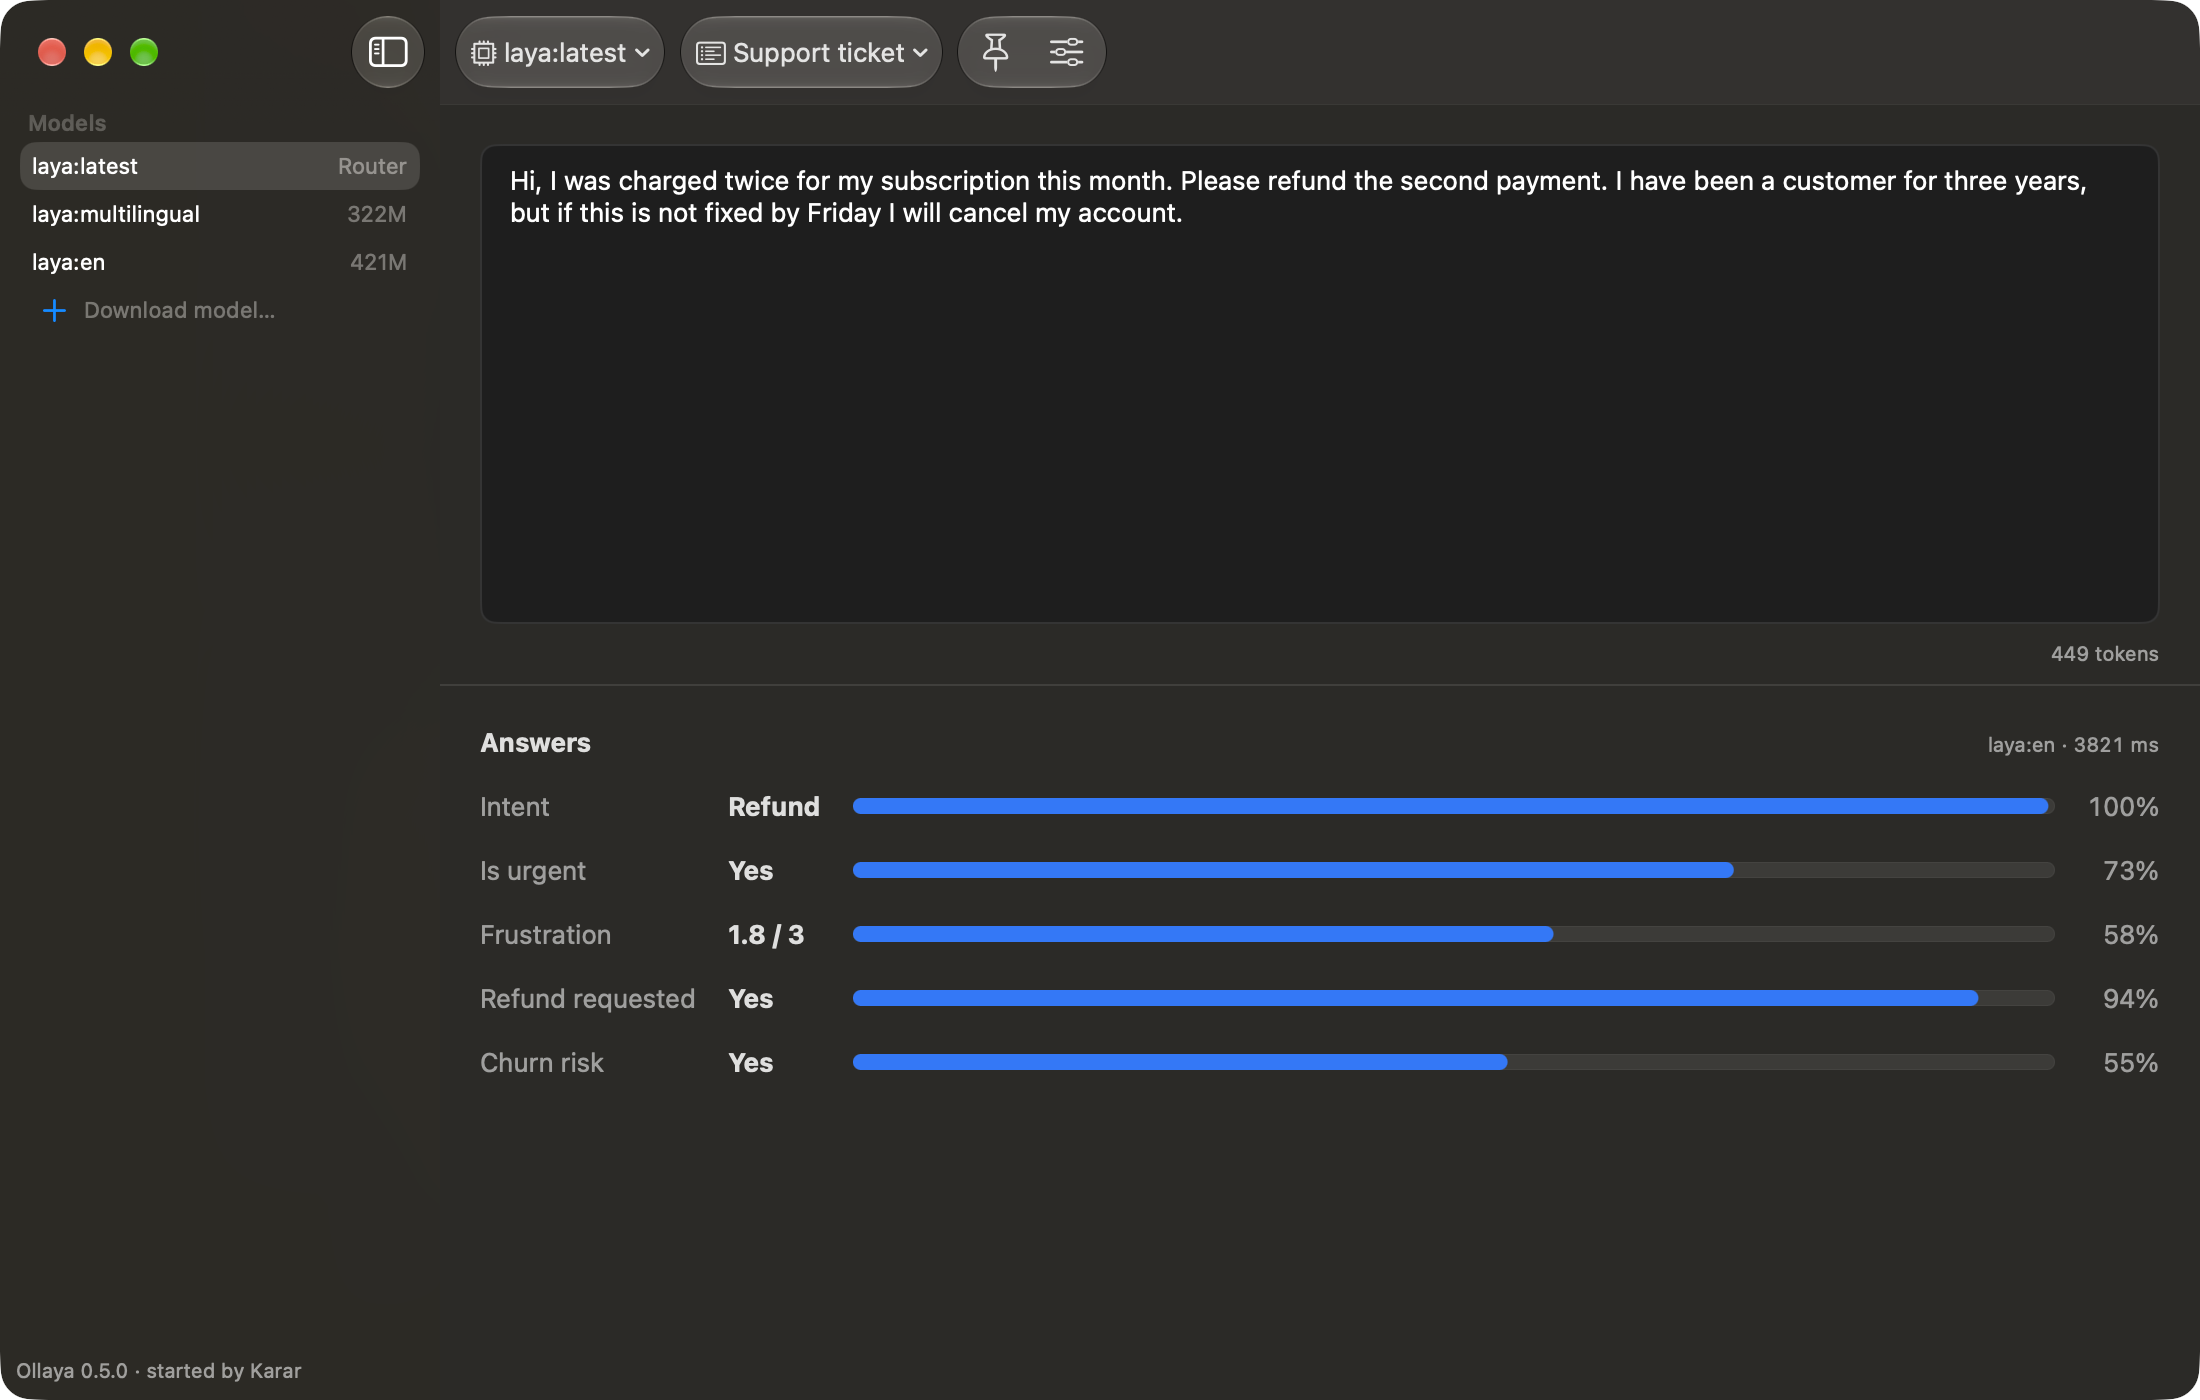
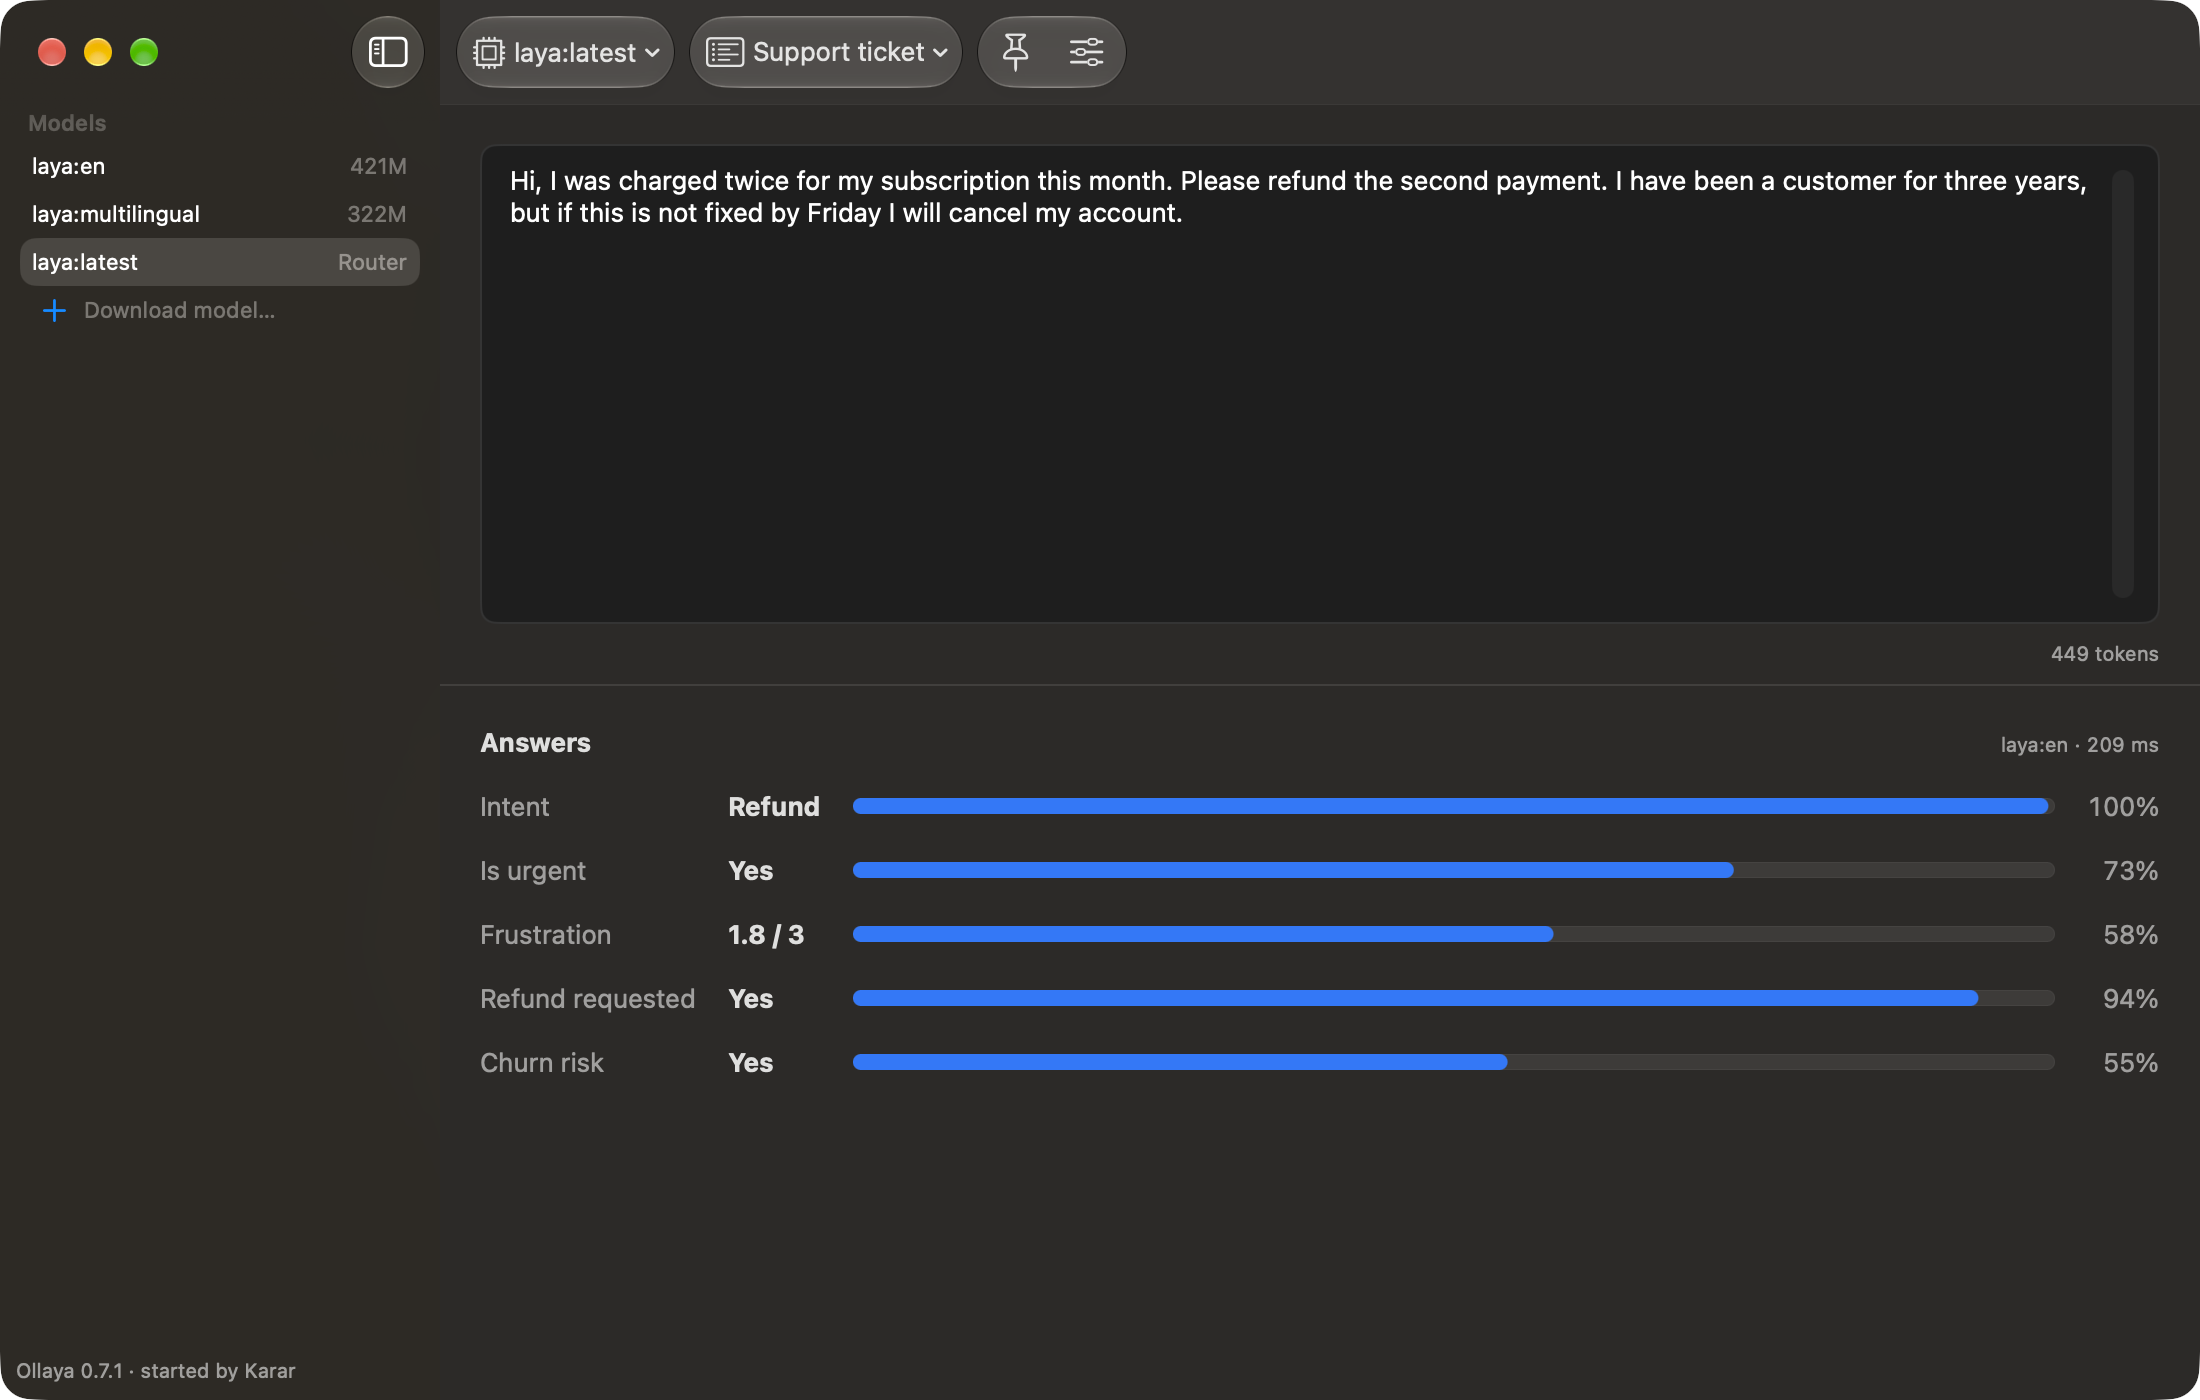
Phase 9 done: screenshots with GPU timings, roadmap notes

diff --git a/docs/superpowers/plans/2026-09-24-karar-roadmap.md b/docs/superpowers/plans/2026-09-24-karar-roadmap.md
@@ -160,7 +160,7 @@ Plans are written at the start of their phase, not all up front, so they match t
   Advanced off and the sidebar shown) and push to `main`. The README and the site read the same files
   (`site/screenshots` is a symlink), and `pages.yml` redeploys on `docs/screenshots/**`.
 
-- [ ] **Phase 9 — Ollaya v0.7.1: the Apple GPU (Karar v0.2.0).**
+- [x] **Phase 9 — Ollaya v0.7.1: the Apple GPU (Karar v0.2.0).**
   Spec: [`../specs/2026-09-26-ollaya-v0.7.1-design.md`](../specs/2026-09-26-ollaya-v0.7.1-design.md)
   Plan: [`2026-09-27-phase-9-ollaya-v0.7.1.md`](2026-09-27-phase-9-ollaya-v0.7.1.md)
   The user (2026-09-26): bump to the latest Ollaya now, carefully, however small the change.
@@ -419,3 +419,33 @@ Ideas, not phases. Spec §2 lists auto-update as out of scope for v1.
   directly (not by XCUITest), a ⌥⌘I or `defaults` flip of Advanced never reproduced the inspector
   case; the XCUITest and the user's clicks did. `NSWindow.minSize` is tied to `contentMinSize`.
   All test runs of Karar share the user's defaults domain, including `NSWindow Frame main`.
+- Phase 9: Ollaya v0.7.1 bump (Karar v0.2.0): minos still 14.0; the MLX archive's `mlx.metallib`
+  (135,865,440 bytes) sits in `Contents/Resources/mlx_metal/`, and the runner finds it there without
+  `OLLAYA_LIBRARY_PATH`; no new entitlements, MLX runs under Hardened Runtime with ad-hoc signing;
+  DMG 64 MB (v0.1.3: 18 MB).
+- Phase 9, GPU latency, M1 Pro, triage (5 questions), warm, through the API: laya:en 1141 → 166 ms,
+  laya:multilingual 419 → 61 ms. In the app, laya:latest shows 208–377 ms. A cold GPU load takes
+  ~1.0–1.3 s. The first answer after launch was already 346 ms thanks to the preload.
+- Phase 9: new catalog models run on the CPU on a Mac. Warm medians (M1 Pro, triage): von 1856 ms,
+  kev 2324 ms, decision 4442 ms. All three licences are Apache-2.0. Their summaries say "slower than
+  Laya" (the user's decision for von).
+- Phase 9: llama.cpp is not embedded — library validation (Hardened Runtime, ad-hoc) refuses ad-hoc
+  llama.cpp dylibs (`dlopen failed`); `com.apple.security.cs.disable-library-validation` would allow
+  them. Karar's engine refuses a GGUF pull after fetching only the manifest and a 510-byte config:
+  "winnow:e4b runs on llama.cpp, and this installation of ollaya has no llama.cpp libraries
+  (lib/ollaya/llama); nothing was downloaded" (`UNSUPPORTED_MODEL`).
+- Phase 9, the GPU refresh: after a re-pull, the engine loads a model from its new manifest as a
+  separate MLX runner, and the old CPU runner stays until its `keep_alive` ends (`/api/ps` lists
+  both); the refresh flag is `gpuRefresh:<OLLAYA_MODELS or "default">` in Karar's defaults domain,
+  deleted with `defaults delete io.github.omerhakanbilici.karar "gpuRefresh:<store>"` to re-test; an
+  old-install store can be faked by removing the `application/vnd.ollaya.arch` layer from the
+  manifests with jq.
+- Phase 9, screenshots: with an external display as the main screen, Karar opens there at 1×;
+  `-NSWindow Frame main "x y w h sx sy sw sh"` with the built-in screen's own frame (from
+  `NSScreen.screens`, e.g. `227 -982 1512 982`) opens it on the built-in display at 2×. The model
+  selection isn't persisted, so the router needs a click, and that click re-runs the answer warm.
+  With a mouse connected, scroll bars show in the Advanced shots (accepted by the user).
+- Phase 9: in About, with four Ollaya links, "Third-party notices" wraps onto two lines (seen by the
+  user, accepted as is).
+- Phase 9: UI tests 6/6 (31 s) after the user approved Automation Mode again. `KararUITests` still
+  pass with the silent refresh (it pulls laya:en's arch layer into the test store).
